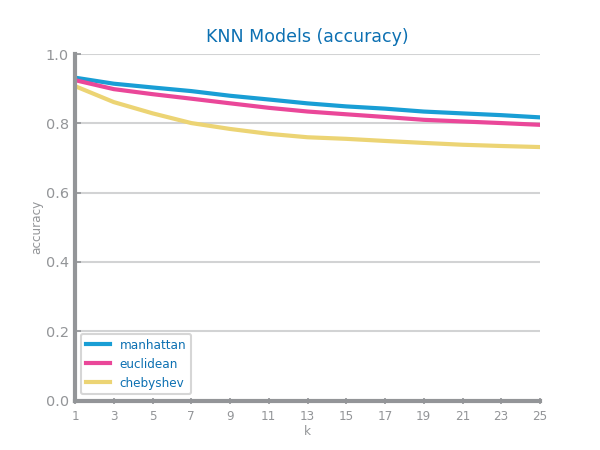
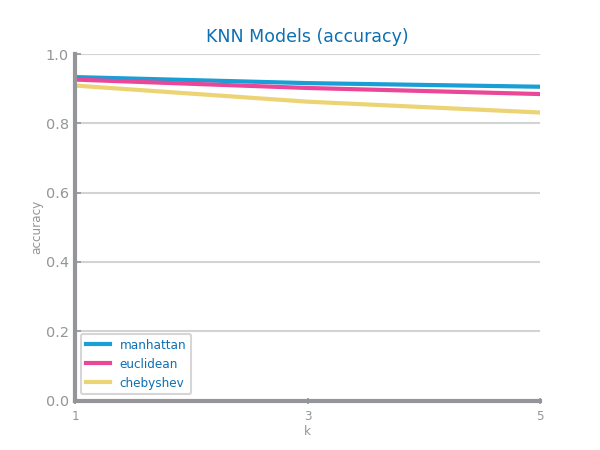
knn

diff --git a/classification/KNN.py b/classification/KNN.py
@@ -56,7 +56,7 @@ class KNN:
         print("estou aqui 4")
         eval_metric = 'accuracy'
         figure()
-        best_model, params = self.knn_study(self.trnX, self.trnY, self.tstX, self.tstY, k_max=25, metric=eval_metric)
+        best_model, params = self.knn_study(self.trnX, self.trnY, self.tstX, self.tstY, k_max=5, metric=eval_metric)
         savefig(f'images/{self.file_tag}_knn_{eval_metric}_study.png')
         show()
         return best_model, params

diff --git a/set2.py b/set2.py
@@ -417,3 +417,6 @@ best_model, best_params = classificationKNN.full_metrics_KNN_study()
 
 # Chama a função performance_analysis com os resultados obtidos
 classificationKNN.performance_analysis(best_model, best_params)
+
+classificationKNN.overfitting_study(best_params, "accuracy")
+
